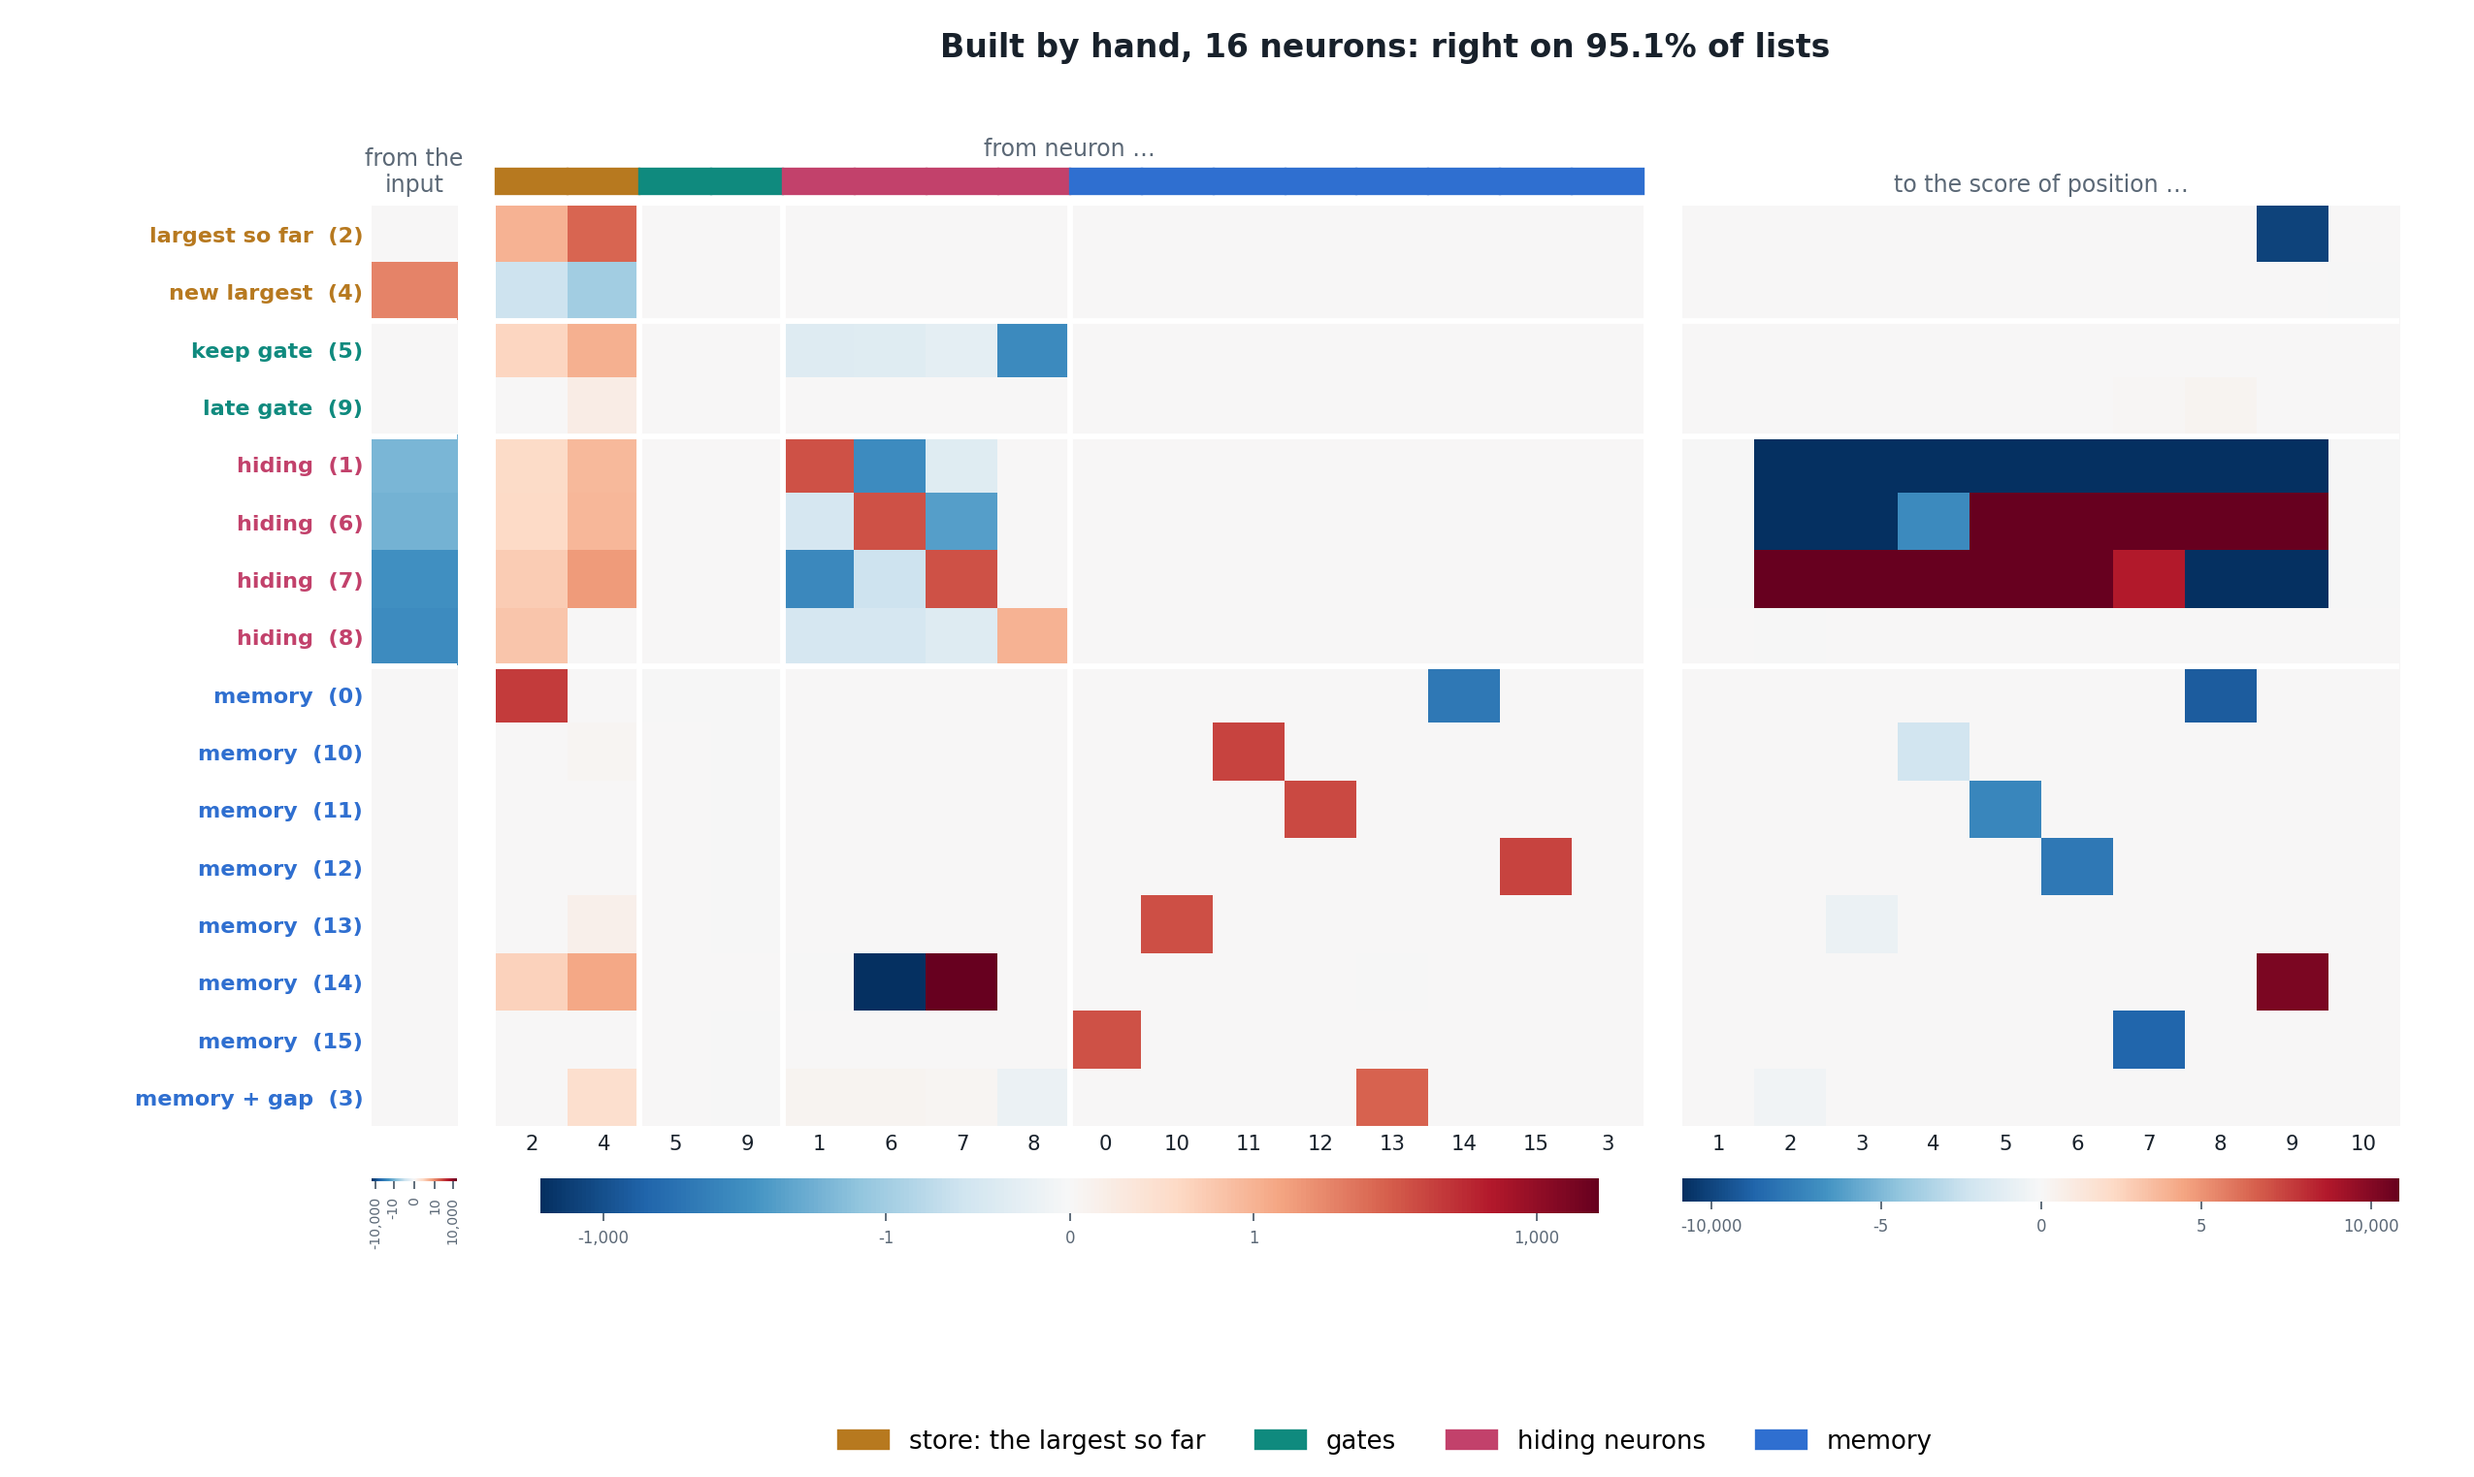
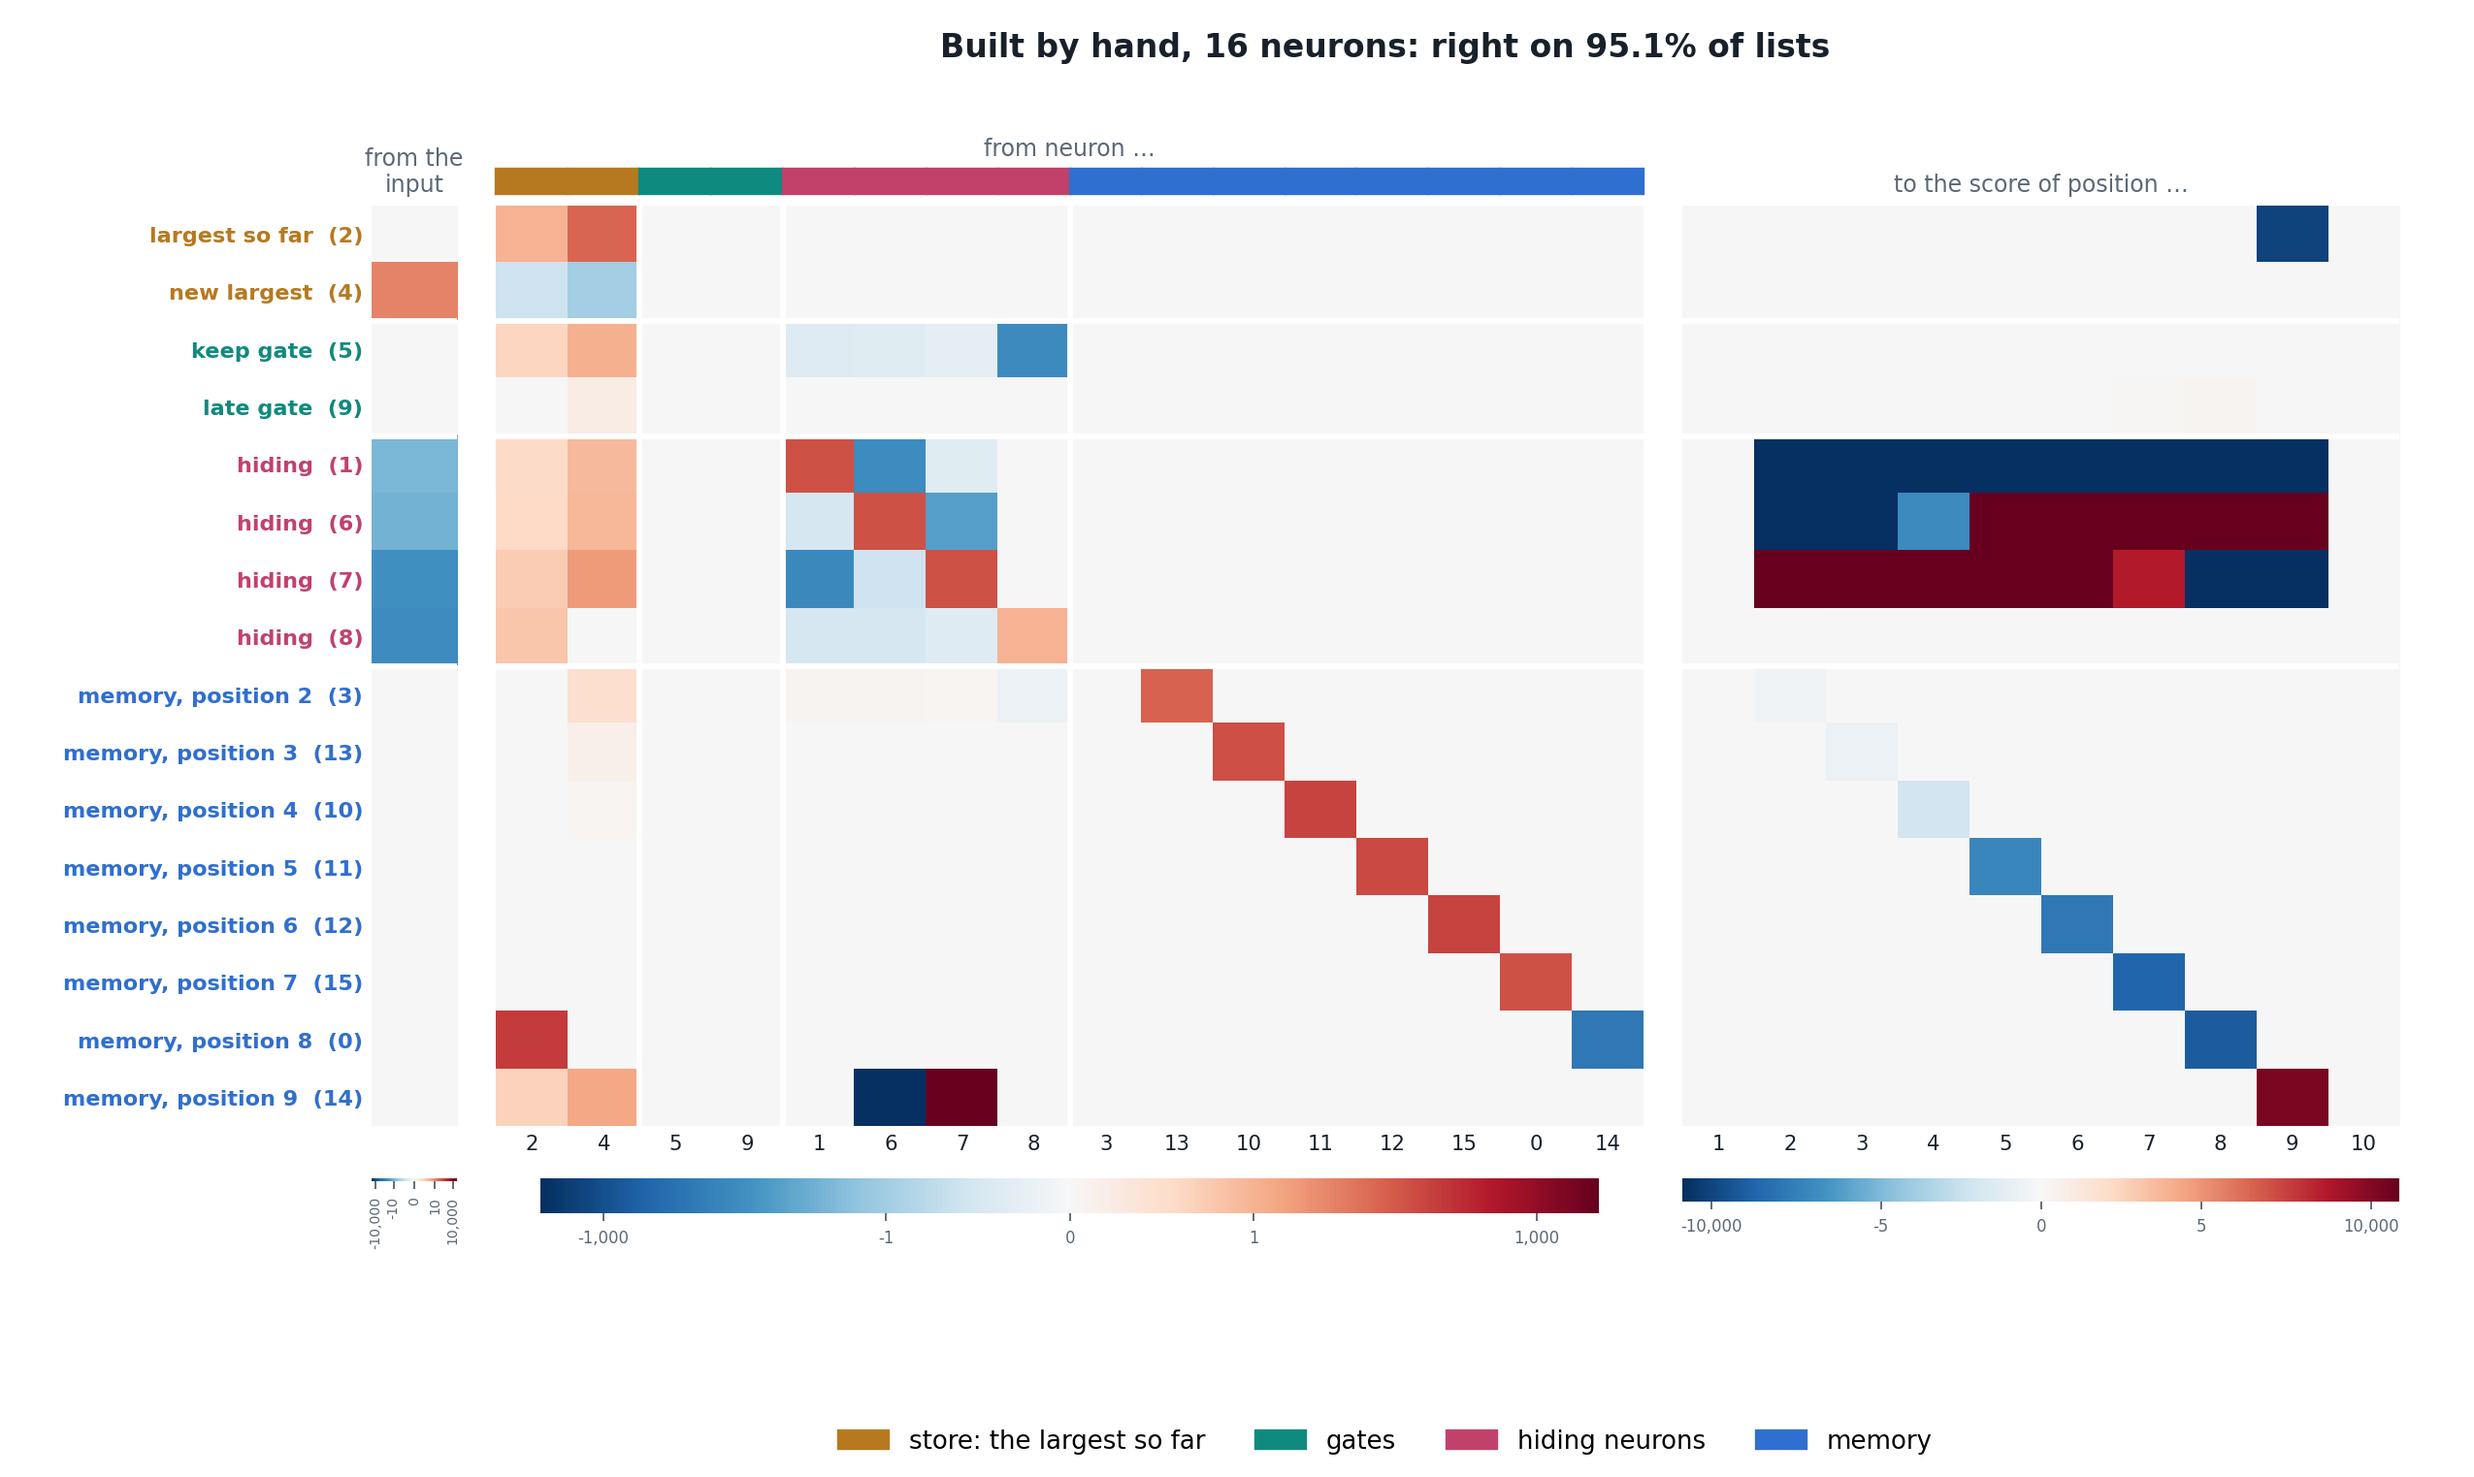
Hand-built weight figures: memory chain sorted by position

diff --git a/research/20261017_handbuilt/paper/figures/fig_v4_weights3.py b/research/20261017_handbuilt/paper/figures/fig_v4_weights3.py
@@ -95,5 +95,17 @@ P16 = rescale(P16, RA)
 P24 = [np.asarray(p, float) for p in w24.weights()]
 slot = {r[0]: r[1].split("(")[-1].rstrip(")") for r in rows_24}
 P24 = rescale(P24, np.array([RA[int(slot[i])] if slot[i].isdigit() else np.median(RA) for i in range(24)]))
+def chain_order(P, rows, is_cell):
+    """Sort the delay-chain memory cells by the position each one adds to (its largest readout weight), so the
+    chain shows as a diagonal; label each with that position. Other rows keep their order."""
+    cells = [r for r in rows if is_cell(r)]
+    pos = {r[0]: int(np.argmax(np.abs(P[2][:, r[0]]))) + 1 for r in cells}
+    cells = sorted(cells, key=lambda r: pos[r[0]])
+    cells = [(r[0], f"memory, position {pos[r[0]]}  ({r[1].split('(')[-1]}", r[2]) for r in cells]
+    first = min(i for i, r in enumerate(rows) if is_cell(r))
+    rest = [r for r in rows if not is_cell(r)]
+    return rest[:first] + cells + rest[first:]
+rows_16 = chain_order(P16, rows_16, lambda r: r[2] == "memory")
+rows_24 = chain_order(P24, rows_24, lambda r: r[1].startswith("memory") and r[0] != I["linear"])
 draw(P16, rows_16, "Built by hand, 16 neurons", "fig_v4_weights_hb16.png")
 draw(P24, rows_24, "Built by hand, 24 neurons", "fig_v4_weights_hb24.png")
